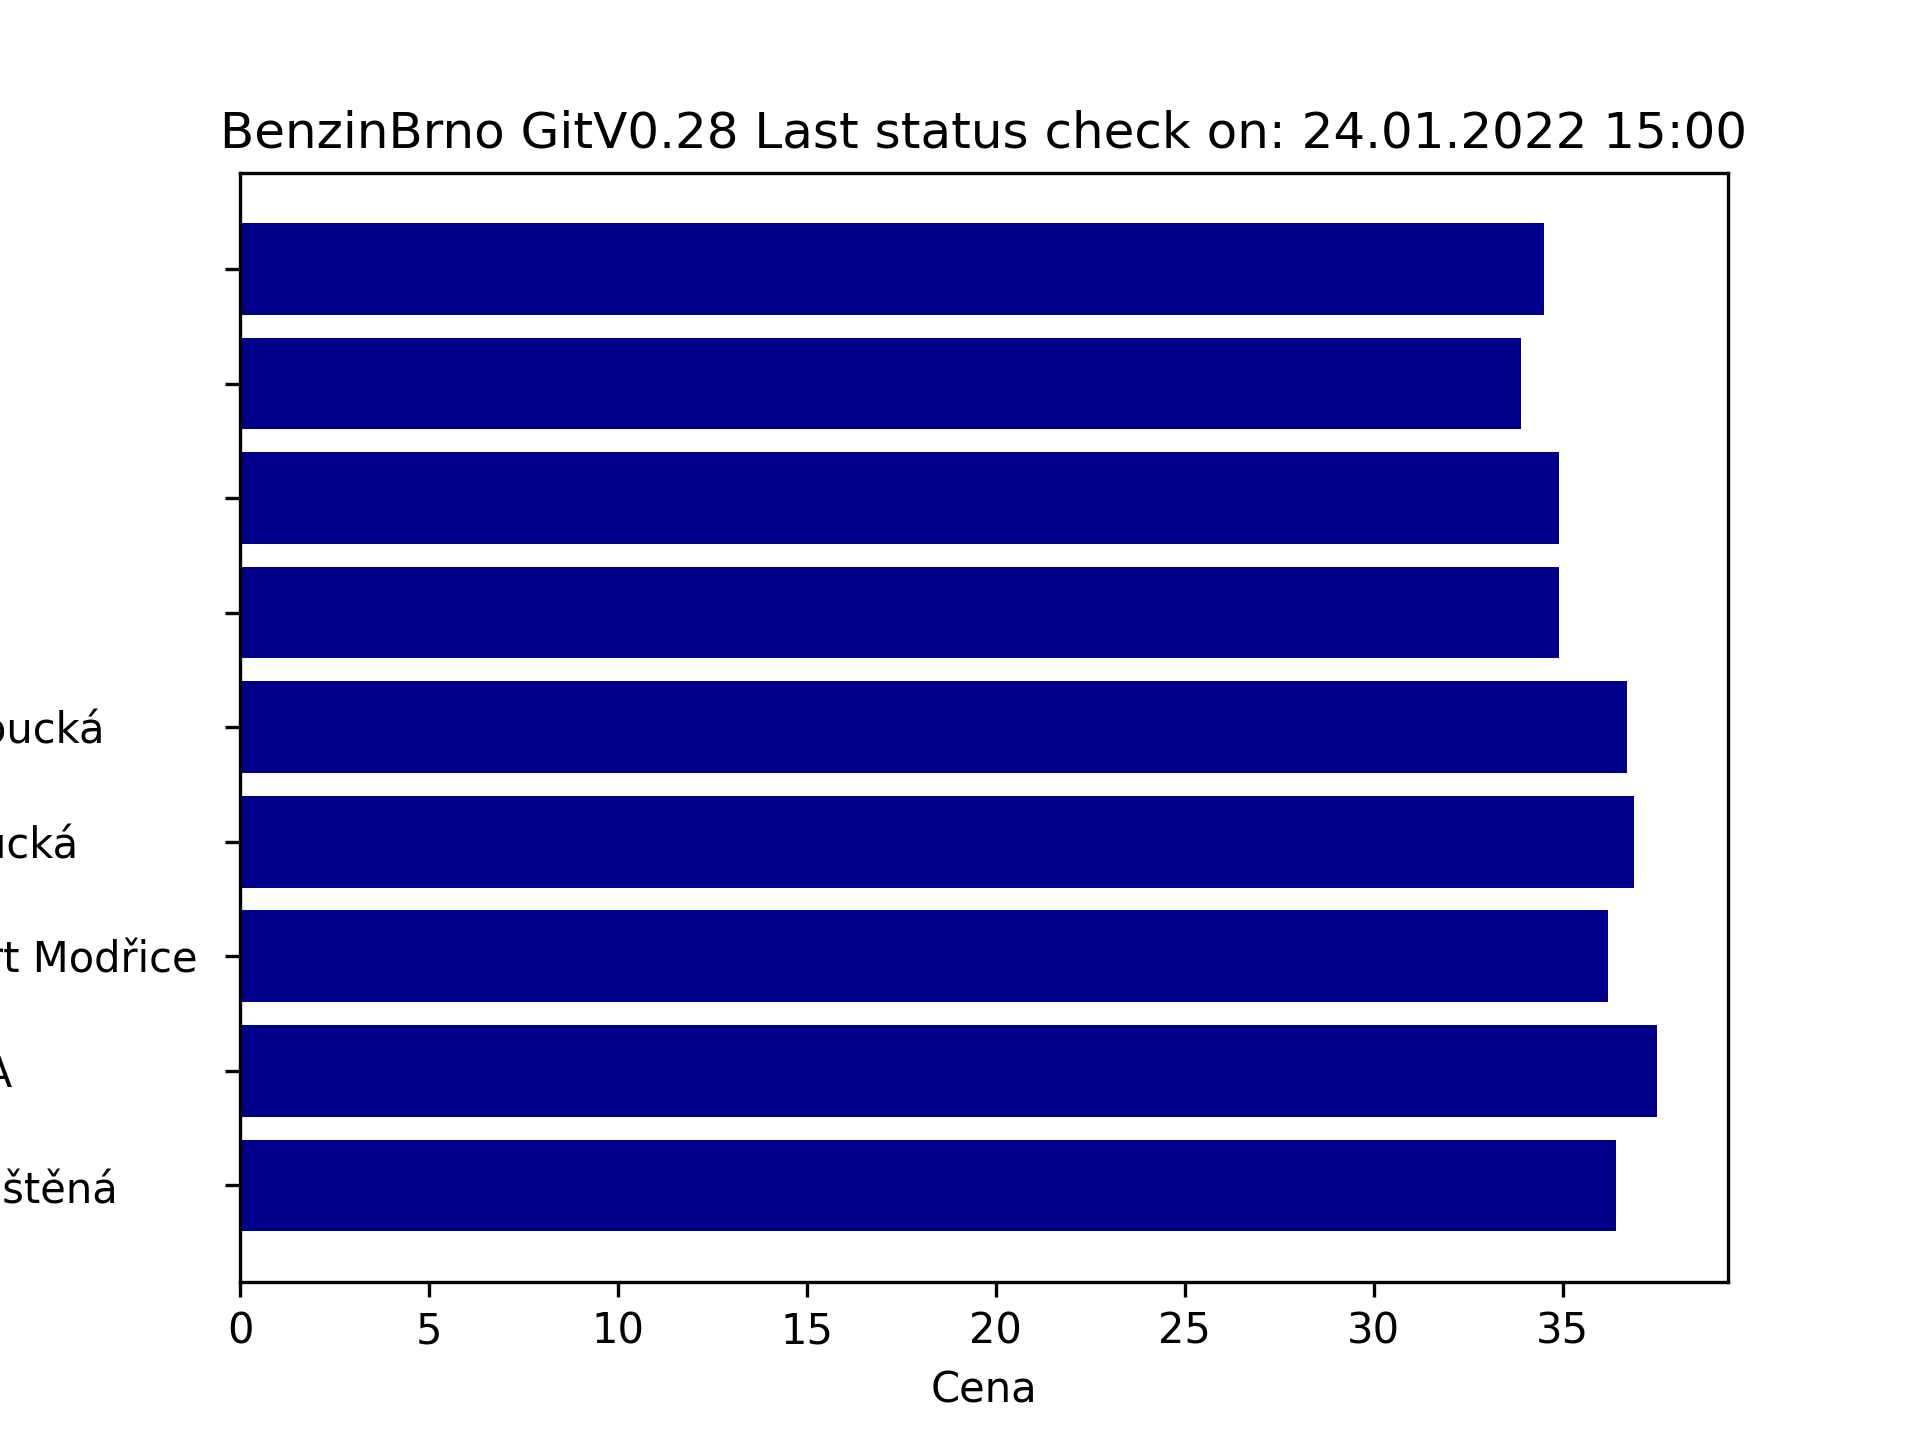
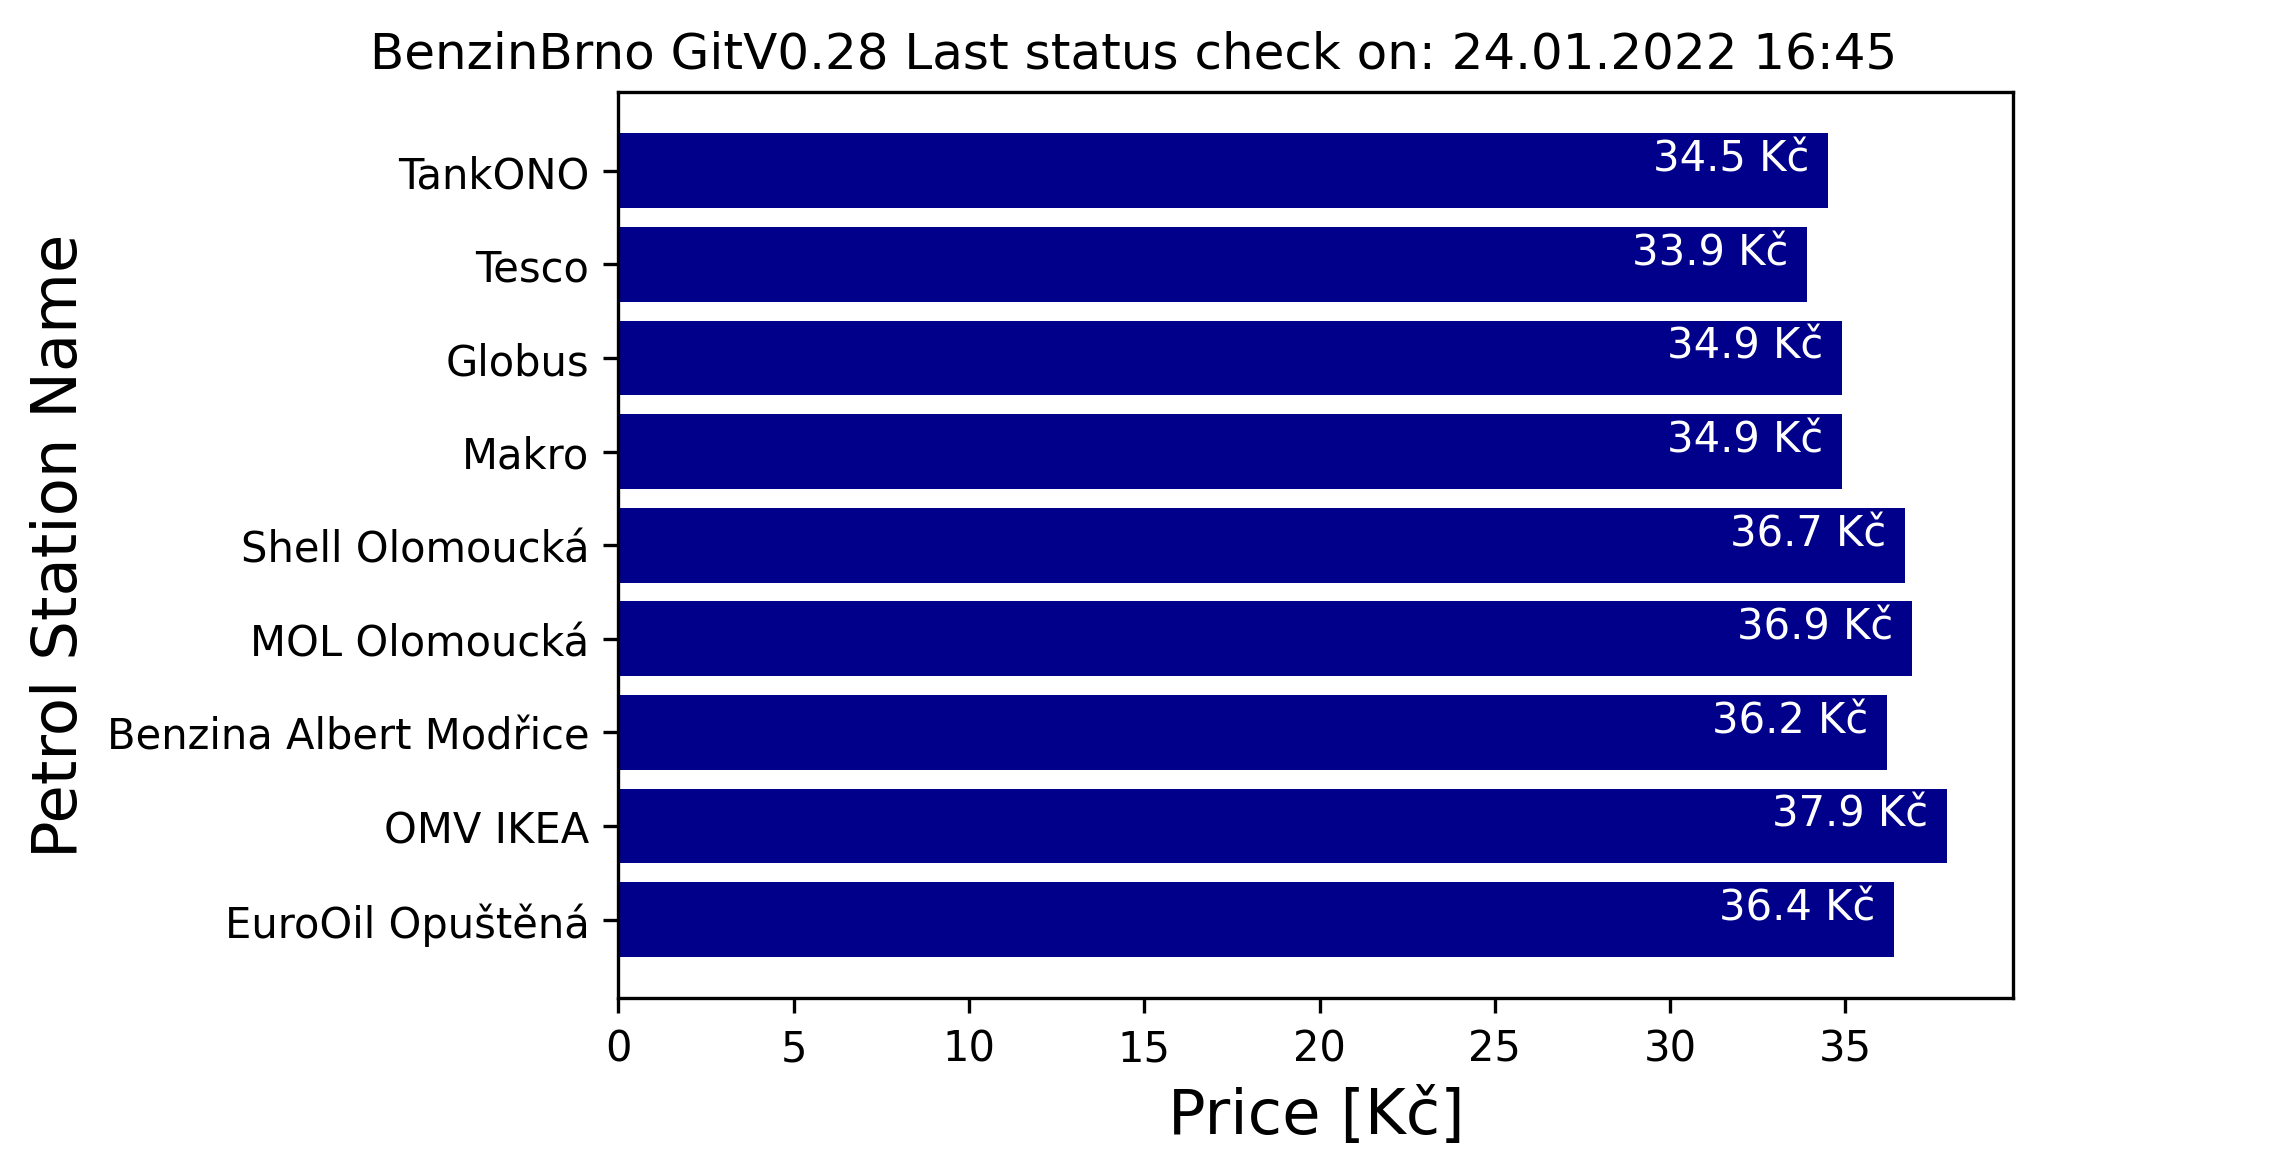
0.29

diff --git a/bbGraf.py b/bbGraf.py
@@ -12,8 +12,9 @@ def Graf():
 
   # Xls file
   df = pd.read_excel(bbXlsFlNm, sheet_name=bbXlsShNm, converters={bbHLAVICKA[bbHlavDate]: pd.to_datetime})
-  # Název + Cena
-  x = df[bbHLAVICKA[bbHlavNazv]]
+  # Název - trim
+  x = df[bbHLAVICKA[bbHlavNazv]].str.strip()
+  # Cena - ',' -> '.'
   y = df[bbHLAVICKA[bbHlavCena]]
 
   # Matplotlib Bars - w3 https://bit.ly/3u9WR6H
@@ -22,11 +23,11 @@ def Graf():
   plt.barh(x, y, color="DarkBlue")
   # displaying the title
   LastChech = str(list(df)[-1:][0])
-  tit = bbNmBB + bbNmVE + ' ' + LastChech
+  tit = bbNmBB + bbNmVE + ' ' + LastChech + '                       '
   plt.title(tit)
-
-  plt.xlabel('Cena')
-  plt.ylabel('Kdo')
+  # print('>>', tit, '<<')
+  plt.xlabel('Price [Kč]', size=15)
+  plt.ylabel('Petrol Station Name', size=15)
   # otocit osu Y
   plt.gca().invert_yaxis()
   # otocit y label
@@ -34,22 +35,21 @@ def Graf():
   # h.set_rotation(0)
 
   # Popis hodnot https://bit.ly/342VdbG
-  # for index, value in enumerate(y):
-  #   plt.text(value - 2.5, index, str(value) + ' Kč ', color="White")
+  for index, value in enumerate(y):
+    # print(' index , val ', index, value)
+    plt.text(value - 5.0, index, str(value) + ' Kč', color="White")
 
   # Save to PNG - bbCeny.png
   # plt.savefig('foo.pdf')
   # plt.savefig('foo.png')
-  plt.savefig(os.path.join(bbPngFlNm), dpi=300, format='png')
+  plt.savefig(os.path.join(bbPngFlNm), dpi=300, format='png', bbox_inches='tight')
   # plt.show()
-
-  ############################
   ############################
   ############################
 
 # main
 def bbGraf_main():
-  print('su tu.')
+  print('bbGraf_main.')
   Graf()
   print('OkDone.')
 

diff --git a/bbCFG.py b/bbCFG.py
@@ -3,7 +3,7 @@
 
 # Globalni promenne
 bbNmBB = 'BenzinBrno '
-bbNmVR = 0.28
+bbNmVR = 0.29
 # bbNmVE = 'v' + str(bbNmVR).format()
 bbNmVE = 'GitV' + '{:.2f}'.format(bbNmVR)
 bbNmDE = ' - Natural 95 prices in Brno - Python Version'
